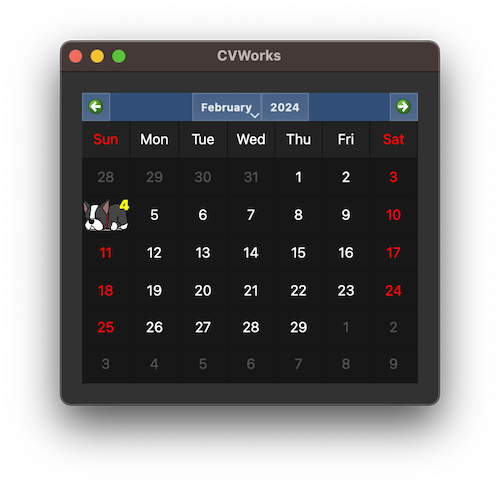
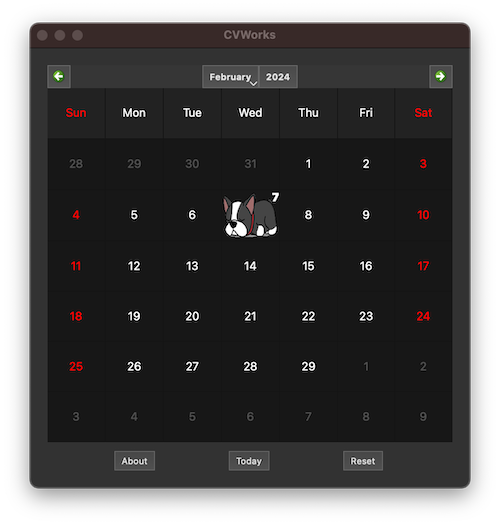
In this update:
Updated screenshots.

diff --git a/cvworks_gui/view.py b/cvworks_gui/view.py
@@ -48,6 +48,7 @@ class CalendarView(QWidget, Ui_Form):
     def closeEvent(self, event) -> None:
         settings.settings.setValue("calendarView/size", self.size())
         settings.settings.setValue("calendarView/position", self.pos())
+        settings.settings.setValue("calendarView/viewMode", self.calendarWidget.mode)
         event.accept()
 
     def keyReleaseEvent(self, event) -> None:
@@ -77,6 +78,9 @@ class CalendarView(QWidget, Ui_Form):
     def showEvent(self, event) -> None:
         self.resize(settings.settings.value("calendarView/size", QSize(400, 428)))
         self.move(settings.settings.value("calendarView/position", QPoint(100, 100)))
+        self.calendarWidget.mode = settings.settings.value(
+            "calendarView/viewMode", CustomCalendarViewMode.Graphical
+        )
         event.accept()
 
     def _center_on_screen(self) -> None:

diff --git a/version.py b/version.py
@@ -1,1 +1,1 @@
-VERSION = '2024.02.17 - build 0653.51'
+VERSION = '2024.02.17 - build 0708.29'

diff --git a/README.md b/README.md
@@ -6,11 +6,15 @@ Just click a date and see what you get.
 <br><br>
 ### Keyboard Shortcuts:
 
-* CTRL-A - About<br>
-* CTRL-R - Reset screen position and dimensions<br>
-* CTRL-T - Jump to today's date<br>
+- CTRL-A - About
+- CTRL-M - Switch between graphical and textual modes
+- CTRL-R - Reset screen position and dimensions
+- CTRL-T - Jump to today's date
 
 ### Screenshots:
+
+#### Graphical Mode
+
 ![Off Image](readme-off.png)
 
 Nope, I'm off today.
@@ -22,3 +26,7 @@ Nope, I'm off today.
 Bumber, It's my turn.
 
 ![WORKS](screenshot-works.png)
+
+#### Text Mode
+
+![Text Mode](screenshot-text-mode.png)
